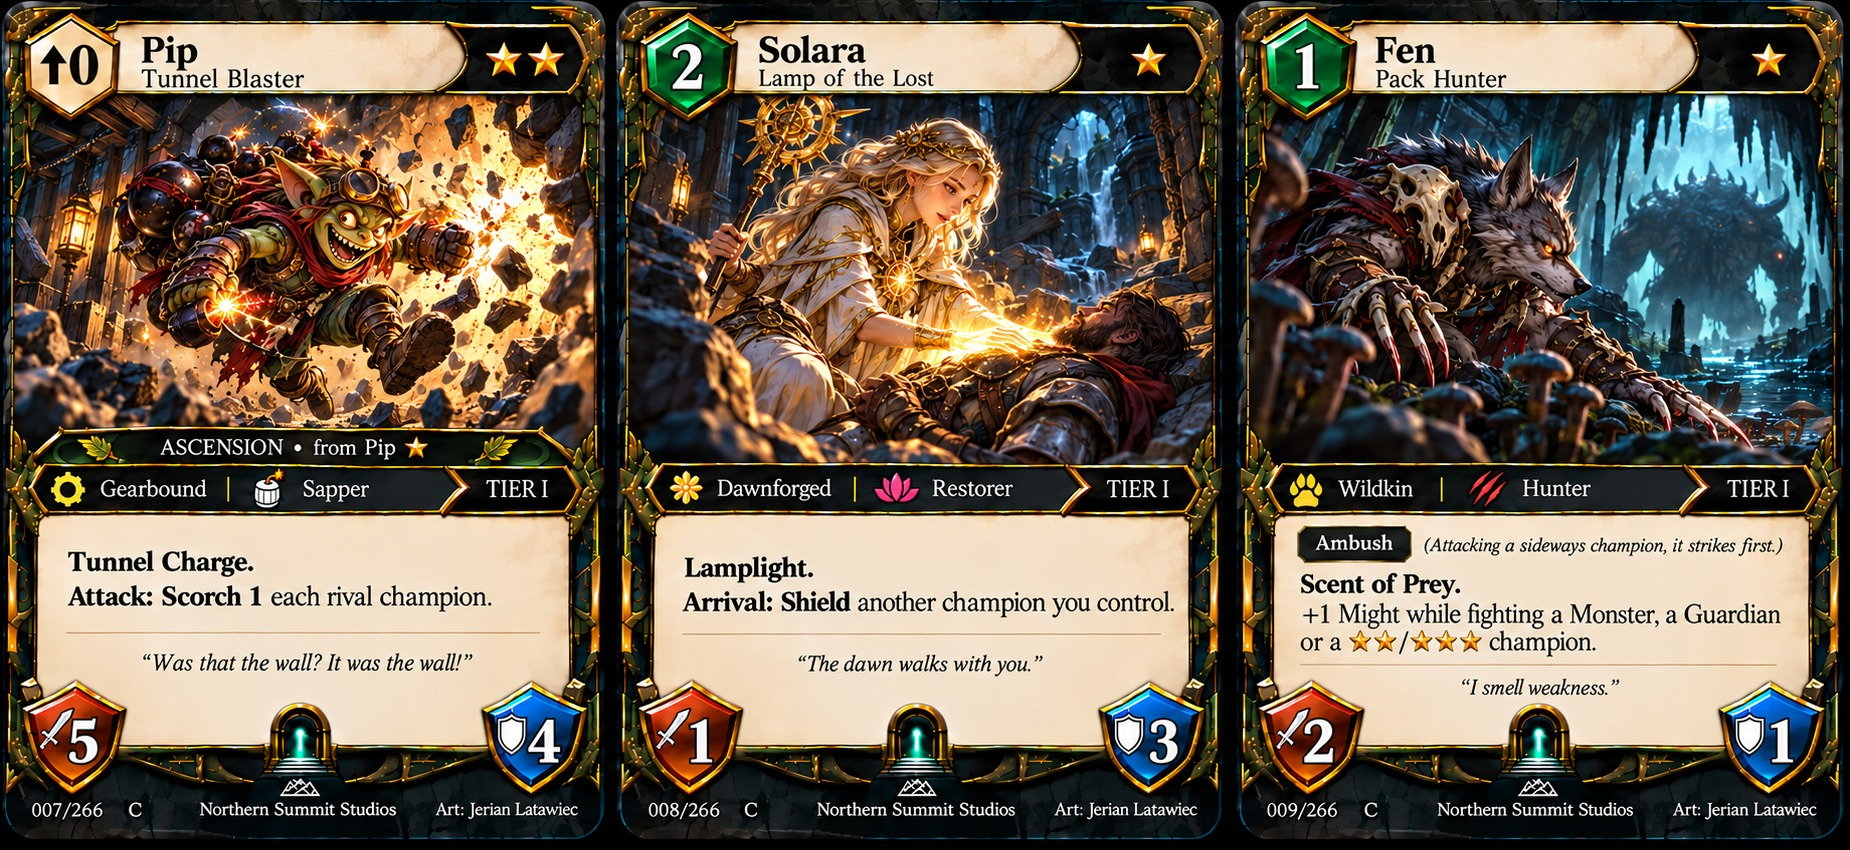
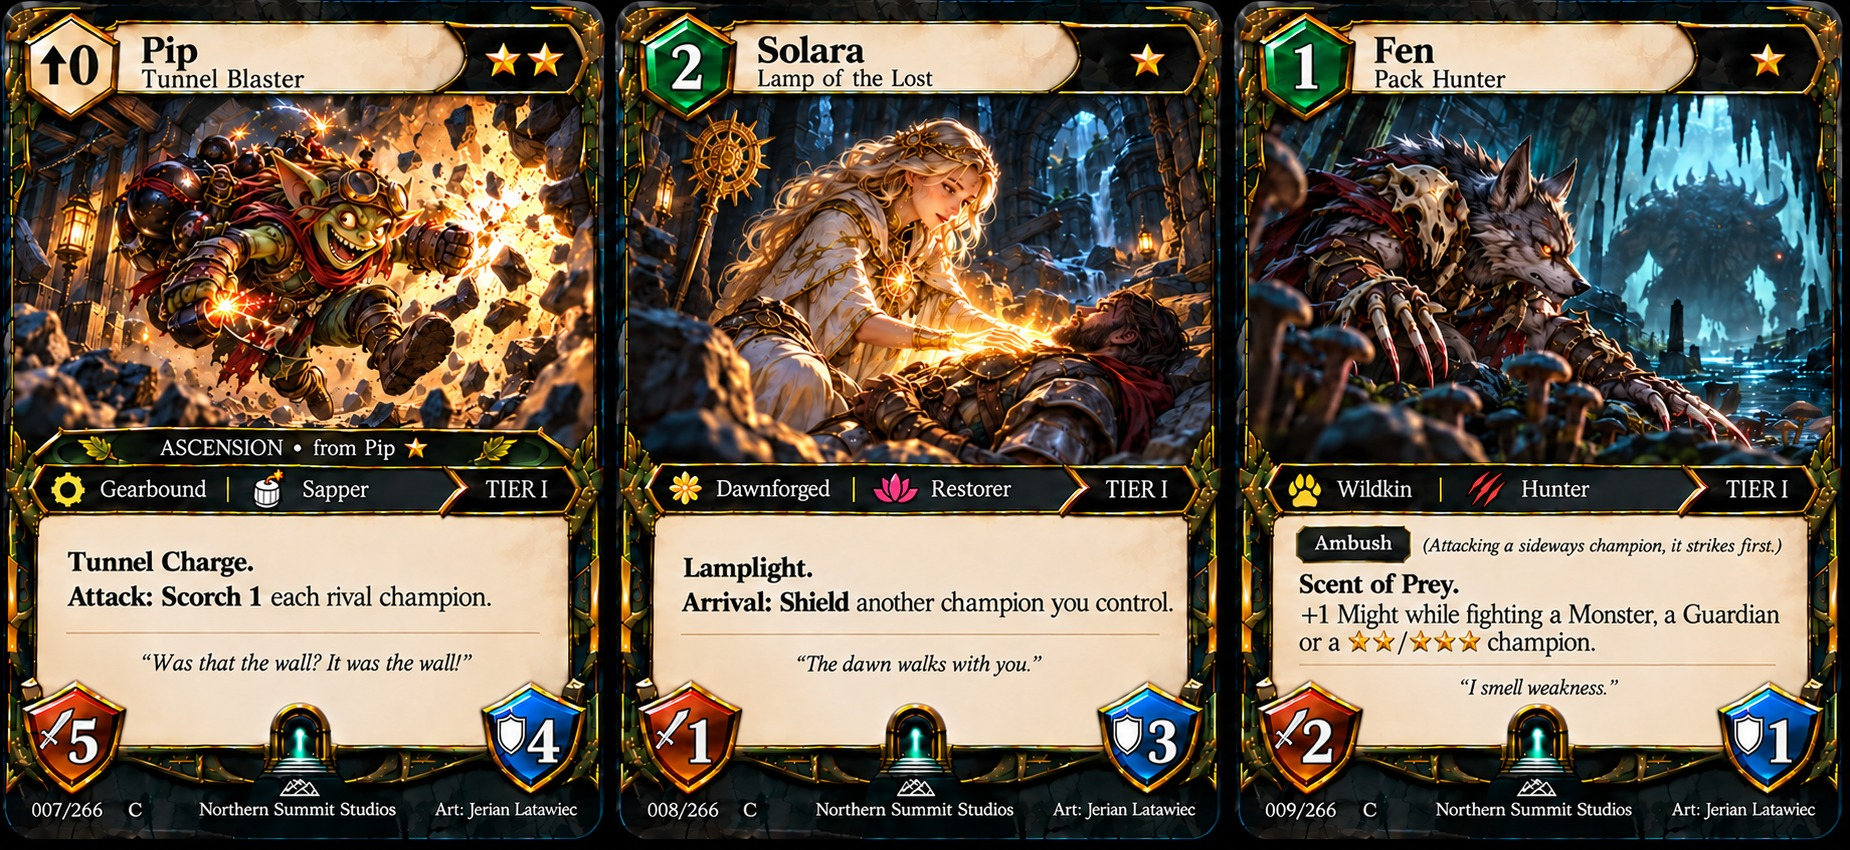
art(set2): 008 Solara fixed (two arms) and approved

diff --git a/prototype-v0.2/card-prompts/set2-in-order/ORDER.md b/prototype-v0.2/card-prompts/set2-in-order/ORDER.md
@@ -6,7 +6,7 @@ Generated by `npm run proto:cardprompts`. Finished card numbers go in DONE.txt a
 | --- | --- | --- |
 | 001, 002, 003 | done | |
 | 004, 005, 006 | done | |
-| 007, 008, 009 | 008 Solara ★ | set2-in-order/sheet-007-009.txt |
+| 007, 008, 009 | done | |
 | 010, 011, 012 | 010 Fen ★★ · 011 Torren ★ · 012 Torren ★★ | set2-in-order/sheet-010-012.txt |
 | 013, 014, 015 | 013 Rowan ★ · 014 Rowan ★★ · 015 Rowan ★★★ | set2-in-order/sheet-013-015.txt |
 | 016, 017, 018 | 016 Bolt ★ · 017 Bolt ★★ · 018 Kael ★ | set2-in-order/sheet-016-018.txt |
